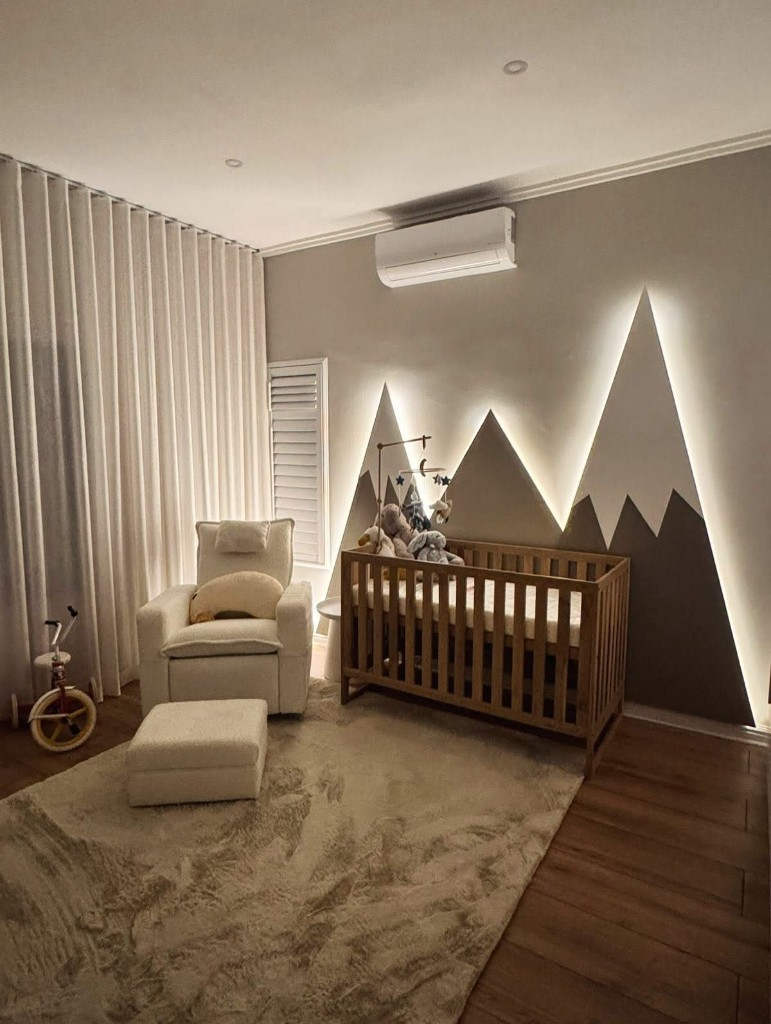
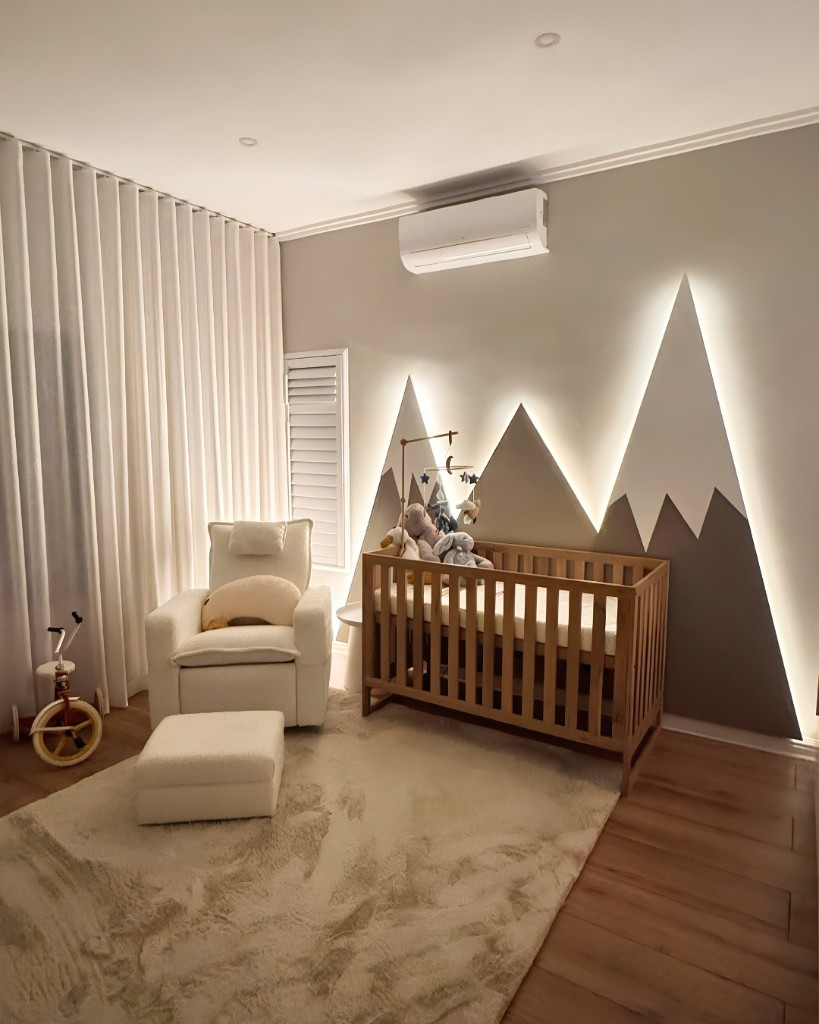
Update Instagram preview card 4 with new nursery mountain image.
Refresh the ig-4 asset and dimensions while keeping the existing post link.

diff --git a/src/lib/content/social-posts.ts b/src/lib/content/social-posts.ts
@@ -41,7 +41,7 @@ export const socialPosts: SocialPost[] = [
     permalink:
       "https://www.instagram.com/p/DLwPeD6orJ4/?igsh=YXlycTdpeWk4M2Fr",
     image: "/social/ig-4.jpg",
-    width: 771,
+    width: 819,
     height: 1024,
   },
   {